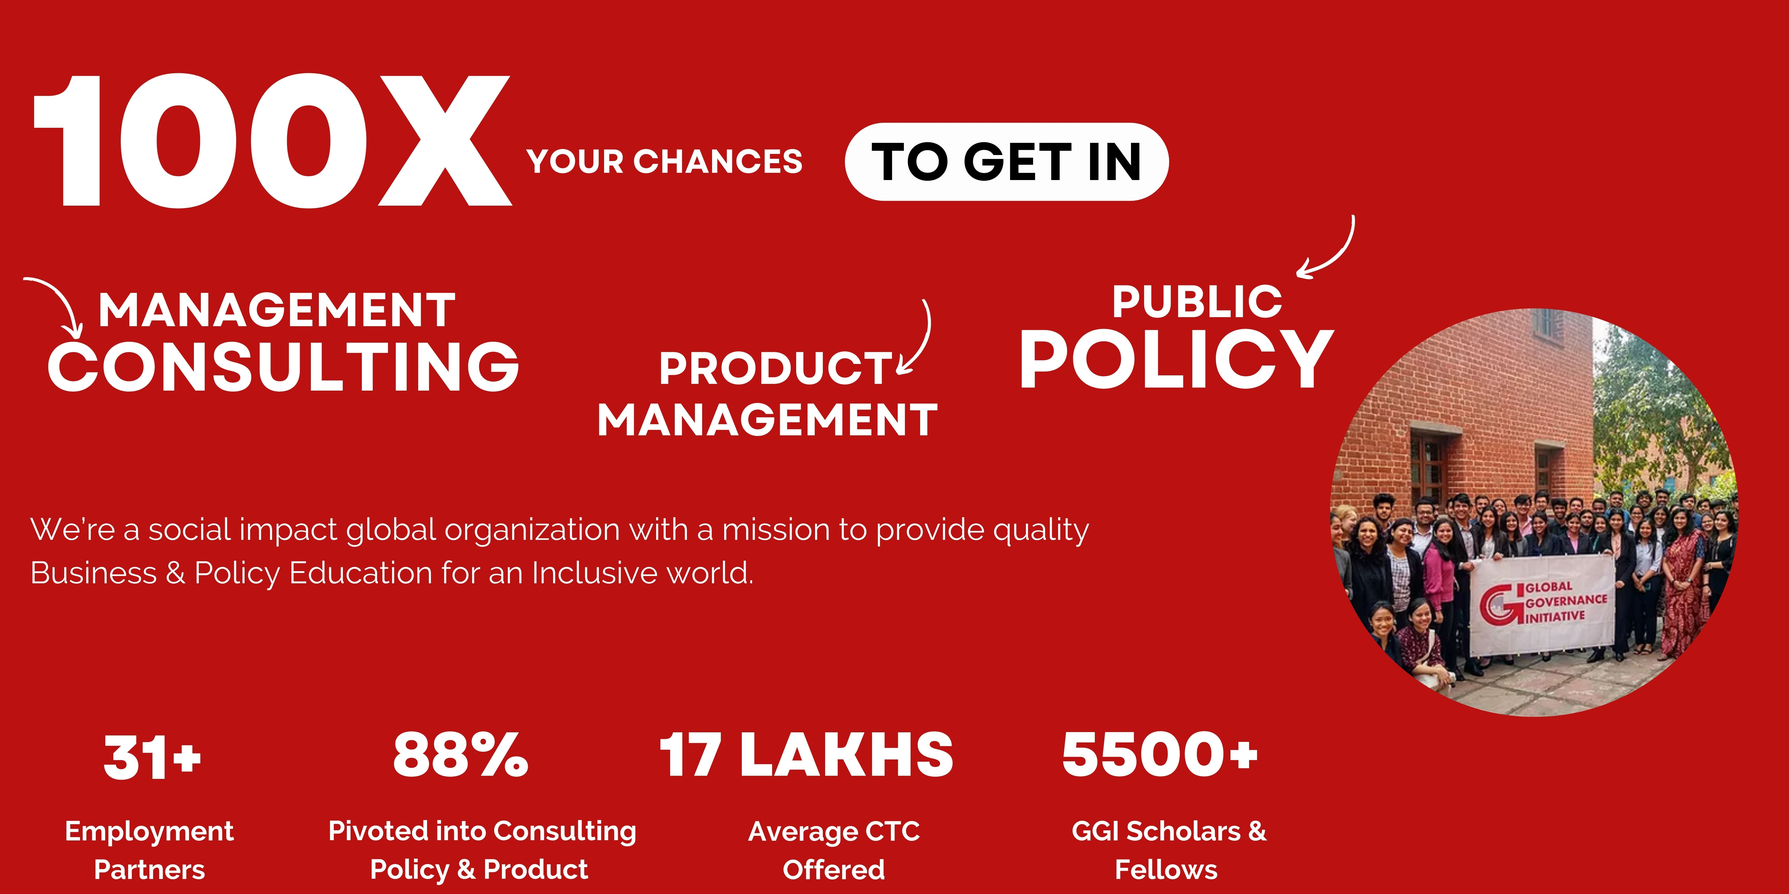
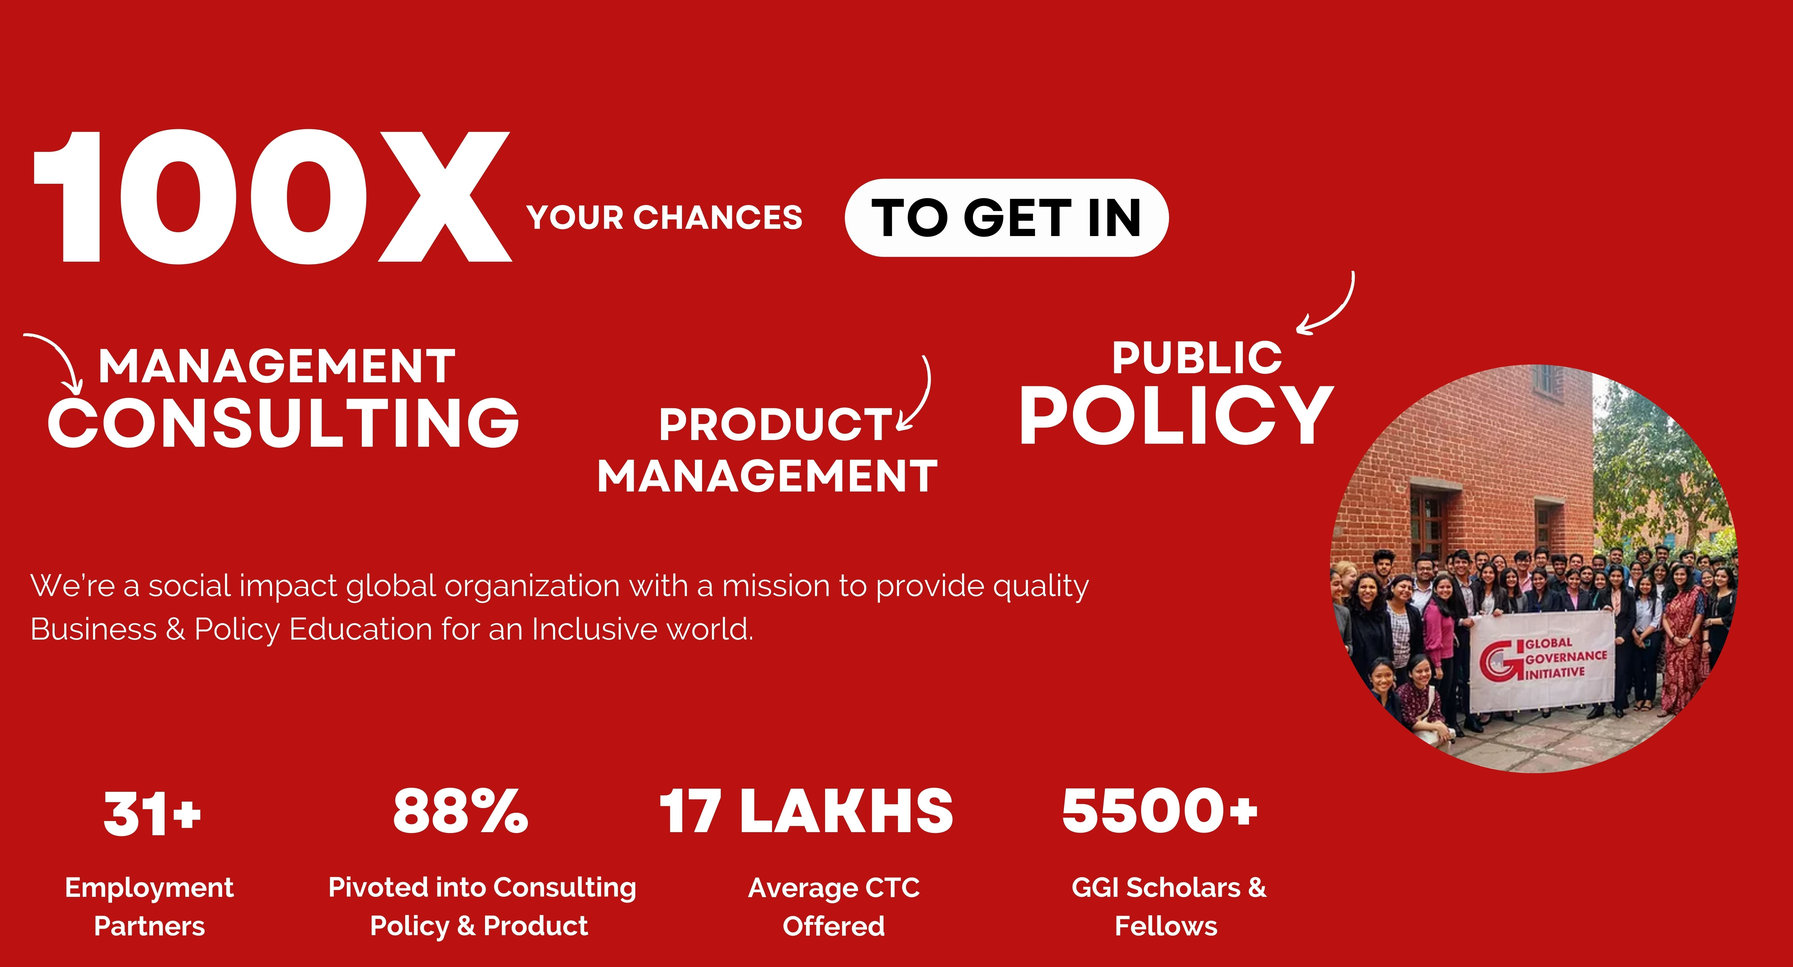
impact fellowship page added

diff --git a/pages/ggipolicyscholarsprogram.jsx b/pages/ggipolicyscholarsprogram.jsx
@@ -5,51 +5,125 @@ import Socials from '../components/global/Socials';
 import Heading from '../components/global/Heading';
 import FourColumnLayout from '../components/global/FourColumnLayout';
 import Container from '../components/global/Container';
+import OfficialPartners from '../components/global/OfficialPartners';
+
 // ------------------------------------------------------------------
 import network from '../public/network2.jpeg'
 import clinton from '../public/clinton.png'
 import arunm from '../public/arun_maira.jpg'
 import poets from '../public/poetsnquants.png'
+import Partners from '../components/global/Partners';
+// -------------------------------------------------------------
+import BCG from '../public/BCG_M.jpg';
+import mckinsey from '../public/mckinsey.jpg';
+import bain from '../public/bain-logo.jpg';
+import kearney from '../public/Kearney.jpg';
+import ey from '../public/ey.jpg';
+import pwc from '../public/pwc.jpg';
+import amz from '../public/amz.jpg';
+import paytm from '../public/paytm.png';
+import Curriculum from '../components/global/Curriculum';
+import Associations from '../components/global/Associations';
+import Gallery from '../components/global/Gallery';
 
 const ggipolicyscholarsprogram = () => {
-  const fourcolumndata= [ //to be fetched from database
-  {
-    "img":arunm,
-    "title": "Learn from Industry Leaders",
-    "body":"Top Government & Society Leaders write their own policy and social impact cases and teach core Policy Concepts via designing a case-based learning ecosystem."
-  },
-  {
-    "img":clinton,
-    "title": "Get Recruited by Top Employers",
-    "body":"GGI has forged strong employment partnerships with leading consulting, public policy, product management, and impact investing organizations."
-  },
-  {
-    "img":network,
-    "title":"Become Part of Global Network",
-    "body":"Global community represents powerful internationally diverse leaders who are at the helm of leading organizations. And this community helps each other out - not just in referring you to your first job, but in navigating a thriving career or in building your startups."
-  },
-  {
-    "img":poets,
-    "title":"Globally Recognized",
-    "body":"GGI MBA was globally featured by Poets and Quants as the world’s most disruptive Alt MBA program. It was also recognized by BCG Global Media for its learning outcomes "
-  }
-]
+  const companies = [BCG, mckinsey, bain, kearney, ey, pwc, amz, paytm];
+
+  const fourcolumndata = [ //to be fetched from database
+    {
+      "img": arunm,
+      "title": "Learn from Industry Leaders",
+      "body": "Top Government & Society Leaders write their own policy and social impact cases and teach core Policy Concepts via designing a case-based learning ecosystem."
+    },
+    {
+      "img": clinton,
+      "title": "Get Recruited by Top Employers",
+      "body": "GGI has forged strong employment partnerships with leading consulting, public policy, product management, and impact investing organizations."
+    },
+    {
+      "img": network,
+      "title": "Become Part of Global Network",
+      "body": "Global community represents powerful internationally diverse leaders who are at the helm of leading organizations. And this community helps each other out - not just in referring you to your first job, but in navigating a thriving career or in building your startups."
+    },
+    {
+      "img": poets,
+      "title": "Globally Recognized",
+      "body": "GGI MBA was globally featured by Poets and Quants as the world’s most disruptive Alt MBA program. It was also recognized by BCG Global Media for its learning outcomes "
+    }
+  ]
   return (
     <>
-      <SlidingHero image={'./mba.jpg'} heading={"Learn Policy Skills Live, Join Global Network & Get Hired at GGI Policy Scholar to Become Leader in Society "} />
+      <SlidingHero image={'./policy.jpg'} heading={"Learn Policy Skills Live, Join Global Network & Get Hired at GGI Policy Scholar to Become Leader in Society "} />
+
+      <div id='' className='p-4 flex justify-center'>
+        <button className="bg-blue-700 hover:bg-blue-500 text-white font-bold my-12 py-5 px-12 border border-blue-500 rounded">
+          Advance Your Career by Applying Now
+        </button>
+      </div>
+
       <Heading>Why GGI Policy Scholars  Works?</Heading>
-      <FourColumnLayout data={fourcolumndata}/>
+      <FourColumnLayout data={fourcolumndata} />
+
       <Heading>+88% GGIians working in Top Policy & Social Impact Roles and Organizations</Heading>
+      <Partners companies={companies} />
+
       <Heading>Who is this Program for?</Heading>
+      <Container>
+        <p> 1. You are a young professional looking for better <span className='primary font-medium'> alternatives to international MBA</span> programs and want to learn directly from top industry leaders.</p><br />
+        <p>2. You are CA/non-MBA looking to pivot in management consulting in firms such as <span className='primary font-medium'> Mckinsey & BCG,  Product Management, roles</span> in firms such as Uber, Amazon, Microsoft, & leading tech startups.</p><br />
+        <p>3. You are a <span className='primary font-medium'>Pre-MBA </span>with admits to Harvard 2+2, Yale Silver Scholars, and other top MBAs and looking to finish the business curriculum before your program.</p><br />
+        <p>4. You are a <span className='primary font-medium'>budding entrepreneur</span> who is aiming to launch & scale ventures and looking to strengthen business skills while building an incredible support system.</p>
+
+      </Container>
+
       <Heading>Curriculum & Commitment  </Heading>
+      <Curriculum />
+
       <Heading>You Learn along with Diverse Community who Adds to Your Perspective </Heading>
+
       <Heading>A Liberal Refund Policy for You </Heading>
+      <Container>
+        <p>Your learning is our no. 1 goal and we want this decision to be 100% risk-free for you so you can just focus on learning.  We have <span className="font-medium">no questions ask the full refund of the enrollment amount</span>of the selected scholars and fellows, till the first 6 days from the payment date. </p>
+      </Container>
+
       <Heading>Learn & Network with World's top CEOs, Partners, And Policy Leaders  </Heading>
+      <Gallery/>
+
       <Heading>As GGI Policy Scholar, You will Immerse Yourself in a Truly Impactful Experience  </Heading>
+      <Container>
+        <p className='mb-2'>Through teaching,  public sector knowledge, change theories, and engagement with government practitioners, GGI Policy Scholar during GGI MPP improves public policy and public leadership so that people can live in societies that are safer, freer, juster, and more sustainably prosperous. Our practitioner's focus on economic, technology, extremism, sustainability, and your public leadership practice.   </p>
+        <p>Leaders looking to pivot into the world of public policy, social impact, international affairs and impact investing should be able to successfully navigate different cultures, economies, governments, and jobs. To help GGI Policy Scholars develop these crucial abilities, GGI has carefully curated a portfolio of immersive, experiential programs that take place across the social impact and public policy domain. This is achieved in 3 stages during the 3-6 months  :  </p>
+        <h1 className='text-center pink text-xl font-semibold my-8'>STAGE 1 - Adept with Policy Toolkit  </h1>
+        <p className='mb-2'>Today research and data-oriented policy-making is a critical component of sound decision-making in the world of Policy consulting, and social impact- and learning to navigate amidst the breadth of knowledge is what creates a great analytical policy thinker and a leader. GGI prepares Policy Scholars to be future leaders by honing skills that allow them to connect the dots across many areas including macroeconomics, emerging technologies such as AI, public market failures, liberal arts, financial inclusion, sustainability, responsible investing, ethics, energy, climate impact, and core policy perspectives - Via GGI's trademarked Masterclasses.  </p>
+        <p className='mb-2'>In this stage, GGI's Policy scholars will attend the 50 hours of Masterclasses in order for the scholars to interact with key government leaders and practitioners, policy scholars will also be provided unlimited exclusive access to renowned Guest Speakers Masterclasses.  </p>
+        <p className='mb-2'>Many of the Masterclasses are anchored by Incumbent Partners and Managing Directors of consulting firms, FMCG companies, and International Organizations. Over and above the Masterclasses, GGI Scholars indulge in peer to peer-based post Masterclass assignments, projects and startup weekend to apply the learnings on real practical problems.  </p>
+        <p className='mb-2'>The MBA for Impact Masterclass will teach the core MBA curriculum in 10 hours, and these principles will be applied across Masterclasses in Consulting, Investing, Product Management, etc. For the Harvard 2+2, Yale Silver Scholars, and other deferred MBAs - this stage will ensure that you have touched the basics of core courses before the start of your MBA Program - completion of this stage will save time to effectively engage in networking on Wiggly during your MBAs. For the working professionals, this will stage allow you to solve problems with contextual intelligence from across the sectors in your day job. </p>
+        <h1 className='text-center pink text-xl font-semibold my-8'>STAGE 2 - Access to Employment Partnerships & Microexperential learning in Consulting & PM and the Buddy Network </h1>
+        <p className='mb-2'>Global Governance Initiative has crafted and designed (now licensed and patented) microlearning AI-based experience via Schrödinger. It is an interactive real-life case simulator that allows GGI Scholars to practice cases and interviews at a time that works best for them. </p>
+        <p className='mb-2'>The Tool has been truly transformative for many GGI Scholars and Fellows who credit their success of getting into a top-notch consulting firm to this stage. As a GGI Scholar, you are expected to solve cases on this tool at least twice before your interview date. </p>
+        <p className='mb-2'>GGI Scholars will also be made part of a rotating buddy system - where they can practice cases, build a community, bond, and network with other members on Wiggly of the incredibly diverse communities at Global Governance Initiative. </p>
+        <h1 className='text-center pink text-xl font-semibold my-8'>STAGE 3 - Community & Networking Nights  </h1>
+        <p className='mb-2'>It is often said that if you have nothing in your life, but you have at least one person who cares for you unconditionally, it will do wonders for your self-esteem. For GGI Scholars that one person is the entire community at Global Governance Initiative. </p>
+        <p className='mb-2'>They attend monthly inner circle meetings, networking on "wiggly" with scholars from across industries and sectors. </p>
+        <p className='mb-2'>An MBA degree is more than learning valuations and Little’s Law. You pay for the entire experience - the guest speakers, office hours with your professors, campus events, and eventually landing the job of your dreams. It is an experience of a lifetime. </p>
+        <p className='mb-2'>Through Community & Networking Nights via "wiggly", GGI brings the entire campus experience online. </p>
+        <p className='mb-2'>Even though the journey of an Impact Scholar formally ends in 3 months. But Scholars - as GGI Alumni will always have access to the inclusive, supportive, respectful, and collaborative ecosystem of the Global Governance Initiative for the rest of their lives. GGI Impact Scholars also enjoy access to the exclusive partnerships that GGI continuously builds with leading organizations, Business and Policy Schools. </p>
+        <p className='mb-2'>GGI Impact MBA Scholars is Crème de la crème of the Global Governance Initiative network on "wiggly". Through core Masterclasses, flexible curriculum, Networking Nights, AI Tools - Impact MBA scholars Program provides a wide view into the world of social Impact Consulting, Management consulting, and Product Management. </p>
+        <p className='mb-2'>Impact MBA Scholars are also made part of the GGI's Growing network through its various technology portals that comprise an international and diverse network at "wiggly" of GGI Delegates, Impact Scholars, Policy Scholars, Tech MBA Scholars, Fellows, and mentors spread across 4 continents. </p>
+      </Container>
+
       <Heading>Program Fees </Heading>
-      <Container></Container>
+      <Container> <p >Our competitors charge Rs. 3,00,000 to Rs. 7,00,000. So we decided to try crazy pricing. <span className='font-bold'>We are 90% cheaper than our competitor's price.</span> We are doing this because we want to make high-quality business and policy education truly accessible to you all and disrupt the space.
+        <br /><br />
+        Or if you don't want to commit, we have no questions ask full refund policy within 6 days of enrollment payment, i.e. if you are selected ( we have &lt;10% selection rate). <span className='font-bold'>Either way, you win.</span> To get detailed pricing and information, it is accessible on our application page <u><a href='https://forms.gle/hv12YCeTFmDwFFJD8' target="_blank">here</a></u></p>
+      </Container>
+
       <Heading>Our Official Partners</Heading>
+      <OfficialPartners />
+
       <Heading>Our Associations </Heading>
+      <Associations />
+
       <Heading>Frequently Asked Questions </Heading>
       <Accordian />
       <Socials />

diff --git a/pages/ggischolars.jsx b/pages/ggischolars.jsx
@@ -14,6 +14,8 @@ import Community from '../components/global/Community';
 import Curriculum from '../components/global/Curriculum';
 import Masterclasses from '../components/global/Masterclasses';
 import FourColumnLayout from '../components/global/FourColumnLayout';
+import OfficialPartners from '../components/global/OfficialPartners';
+
 // -------------------------------------------------------
 import network from '../public/network.jpg'
 import clinton from '../public/clinton.png'
@@ -25,40 +27,40 @@ import mckinsey from '../public/mckinsey.jpg';
 import bain from '../public/bain-logo.jpg';
 import kearney from '../public/Kearney.jpg';
 import ey from '../public/ey.jpg';
-
 import pwc from '../public/pwc.jpg';
 import amz from '../public/amz.jpg';
 import paytm from '../public/paytm.png';
+import Associations from '../components/global/Associations';
 
 
 const ggischolars = () => {
-  const companies =[BCG,mckinsey,bain,kearney, ey,pwc, amz,paytm  ];
+  const companies = [BCG, mckinsey, bain, kearney, ey, pwc, amz, paytm];
 
-  const fourcolumndata= [ //to be fetched from database
+  const fourcolumndata = [ //to be fetched from database
     {
-      "img":rjgupta,
+      "img": rjgupta,
       "title": "Learn from Industry Leaders",
-      "body":"The top CXOs write their own business cases, and teach core Business Concepts via designing a case-based learning ecosystem."
+      "body": "The top CXOs write their own business cases, and teach core Business Concepts via designing a case-based learning ecosystem."
     },
     {
-      "img":clinton,
+      "img": clinton,
       "title": "Get Recruited by Top Employers",
-      "body":"GGI has forged strong employment partnerships with leading consulting, public policy, product management, and impact investing organizations."
+      "body": "GGI has forged strong employment partnerships with leading consulting, public policy, product management, and impact investing organizations."
     },
     {
-      "img":network,
-      "title":"Become Part of Global Network",
-      "body":"Global community represents powerful internationally diverse leaders who are at the helm of leading organizations. And this community helps each other out - not just in referring you to your first job, but in navigating a thriving career or in building your startups."
+      "img": network,
+      "title": "Become Part of Global Network",
+      "body": "Global community represents powerful internationally diverse leaders who are at the helm of leading organizations. And this community helps each other out - not just in referring you to your first job, but in navigating a thriving career or in building your startups."
     },
     {
-      "img":poets,
-      "title":"Globally Recognized",
-      "body":"GGI MBA was globally featured by Poets and Quants as the world’s most disruptive Alt MBA program. It was also recognized by BCG Global Media for its learning outcomes "
+      "img": poets,
+      "title": "Globally Recognized",
+      "body": "GGI MBA was globally featured by Poets and Quants as the world’s most disruptive Alt MBA program. It was also recognized by BCG Global Media for its learning outcomes "
     }
   ]
   return (
     <div>
-      <SlidingHero image={'./mba.jpg'} heading={"Learn Business Skills Live, Join Global Network & Get Hired at GGI MBA Scholar to Become a Business Leader"}/>
+      <SlidingHero image={'./mba.jpeg'} heading={"Learn Business Skills Live, Join Global Network & Get Hired at GGI MBA Scholar to Become a Business Leader"} />
 
       <div id='' className='p-4 flex justify-center'>
         <button className="bg-blue-700 hover:bg-blue-500 text-white font-bold my-12 py-5 px-12 border border-blue-500 rounded">
@@ -67,7 +69,7 @@ const ggischolars = () => {
       </div>
 
       <Heading>Why GGI Impact MBA Scholars Works ? </Heading>
-      <FourColumnLayout data={fourcolumndata}/>
+      <FourColumnLayout data={fourcolumndata} />
 
       <p className='px-8 text-center font-medium'>GGI Impact MBA has created an Ivy League MBA outcome at 1/1000th of the cost. </p>
       <Container ><span className='primary font-medium'>Your MBA is a big investment, in terms of - time, money, and emotions.</span> It costs upward of $200,000 to pursue an MBA from a Top 20 Global Business School in the world. Despite the high premium - many of the Global Schools (baring few Ivy leagues) do not write their own cases, do not have an extensive global network, do not have experiential learning components, nor do they have strong industry connections.   We at Global Governance Initiative solve this through our mission. </Container>
@@ -76,7 +78,7 @@ const ggischolars = () => {
       <Heading>You Learn along with Diverse Community who Adds to your Perspective</Heading>
 
       <Heading>+88% GGIians working in Top Consulting, Strategy, Product Roles and Organizations</Heading>
-      <Partners companies={companies}/>
+      <Partners companies={companies} />
 
       <Heading>Who is this Program for ?</Heading>
       <Container>
@@ -123,25 +125,27 @@ const ggischolars = () => {
       </Container>
 
       <Heading>Learn What Matters via GGI Case-based Masterclasses in Consulting, Strategy & Product</Heading>
-      <Masterclasses/>
+      <Masterclasses />
       <YoutubeEmbed embedId='nQkS0i38ls8' />
 
       <Heading>At GGI, We Believe In- Person Community is the CornerStone when You are Learning Online </Heading>
       <Community />
 
       <Heading>Program Fees </Heading>
-      <div id='' className='flex justify-center my-12'>
-        <p className='px-4 md:w-4/6'>Our competitors charge Rs. 3,00,000 to Rs. 7,00,000. So we decided to try crazy pricing. <span className='font-bold'>We are 90% cheaper than our competitor's price.</span> We are doing this because we want to make high-quality business and policy education truly accessible to you all and disrupt the space.
-          <br /><br />
-          Or if you don't want to commit, we have no questions ask full refund policy within 6 days of enrollment payment, i.e. if you are selected ( we have &lt;10% selection rate). <span className='font-bold'>Either way, you win.</span> To get detailed pricing and information, it is accessible on our application page <u><a href='https://forms.gle/hv12YCeTFmDwFFJD8' target="_blank">here</a></u></p>
-      </div>
+      <Container> <p >Our competitors charge Rs. 3,00,000 to Rs. 7,00,000. So we decided to try crazy pricing. <span className='font-bold'>We are 90% cheaper than our competitor's price.</span> We are doing this because we want to make high-quality business and policy education truly accessible to you all and disrupt the space.
+        <br /><br />
+        Or if you don't want to commit, we have no questions ask full refund policy within 6 days of enrollment payment, i.e. if you are selected ( we have &lt;10% selection rate). <span className='font-bold'>Either way, you win.</span> To get detailed pricing and information, it is accessible on our application page <u><a href='https://forms.gle/hv12YCeTFmDwFFJD8' target="_blank">here</a></u></p>
+      </Container>
+
+
 
       <Heading>GGI Graduation Certificate</Heading>
 
       <Heading>GGI Official Partners Ready to Collaborate with you </Heading>
-
+      <OfficialPartners />
       <Heading>GGI Associations</Heading>
-
+      <Associations/>
+      
       <Heading>Frequently Asked Questions</Heading>
       <Accordion />
       <Socials />

diff --git a/components/global/SlidingHero.jsx b/components/global/SlidingHero.jsx
@@ -2,9 +2,9 @@ import React from 'react';
 
 const SlidingHero = ({heading, message, image}) => {
   return (
-    <div style={{backgroundImage:`url(${image})` }} className='flex items-center justify-center h-screen mb-12 bg-fixed bg-center bg-cover'>
+    <div style={{backgroundImage:`url(${image})` }} className='h80vh flex items-center justify-center  bg-center bg-cover'>
       {/* Overlay */}
-      <div className='absolute top-0 left-0 right-0 bottom-0 bg-black/30 z-[2]' />       {/* black/percentage  */}
+      {/* <div className='absolute top-0 left-0 right-0 bottom-0 bg-black/10 z-[2]' />       black/percentage  */}
       <div className='flex justify-center align-center p-5 text-white  z-[2] mt-[-10rem]'>
         <h2 className='text-5xl p-4 w-3/4 text-white border-4 font-bold'>{heading}</h2>
         <p className='py-5 text-xl'>{message}</p>

diff --git a/components/global/Associations.jsx b/components/global/Associations.jsx
@@ -1,0 +1,21 @@
+import React from 'react'
+import Image from 'next/image';
+
+import un from '../../public/UN.png'
+import harvard from '../../public/Harvard.png'
+import ceibs from '../../public/ceibs.png'
+
+
+const Associations = () => {
+    return (
+        <div className='flex justify-center'>
+            <div className='w-3/4 gap-5 flex flex-row flex-wrap justify-around'>
+                <Image src={ceibs} />
+                <Image src={harvard} />
+                <Image src={un} />
+            </div>
+        </div>
+    )
+}
+
+export default Associations

diff --git a/components/global/OfficialPartners.jsx b/components/global/OfficialPartners.jsx
@@ -1,0 +1,18 @@
+import React from 'react'
+import Image from 'next/image';
+import ibgc from '../../public/IBGC.png'
+import fletchers from '../../public/fletcher.jpg'
+
+const OfficialPartners = () => {
+    return (
+        <div className='flex justify-center'>
+            <div className='w-3/5 gap-5 flex flex-row flex-wrap justify-around'>
+                <Image src={fletchers}/>
+                <Image src={ibgc}/>
+                
+            </div>
+        </div>
+    )
+}
+
+export default OfficialPartners

diff --git a/components/global/Navbar.jsx b/components/global/Navbar.jsx
@@ -33,7 +33,6 @@ const Navbar = () => {
   return (
     <div
       style={{ backgroundColor: `${color}` }}
-      ease-in duration-300
       className='fixed left-0 top-0 w-full z-10'
     >
       <div className='max-w-[1240px] m-auto flex justify-between items-center text-white'>

diff --git a/styles/globals.css b/styles/globals.css
@@ -19,7 +19,9 @@ html {
   font-family: 'Raleway', sans-serif;
 }
 
-
+.h80vh{
+  height: 80vh;
+}
 /* additional colors */
 .skin {
   background-color: #FBEDE0;
